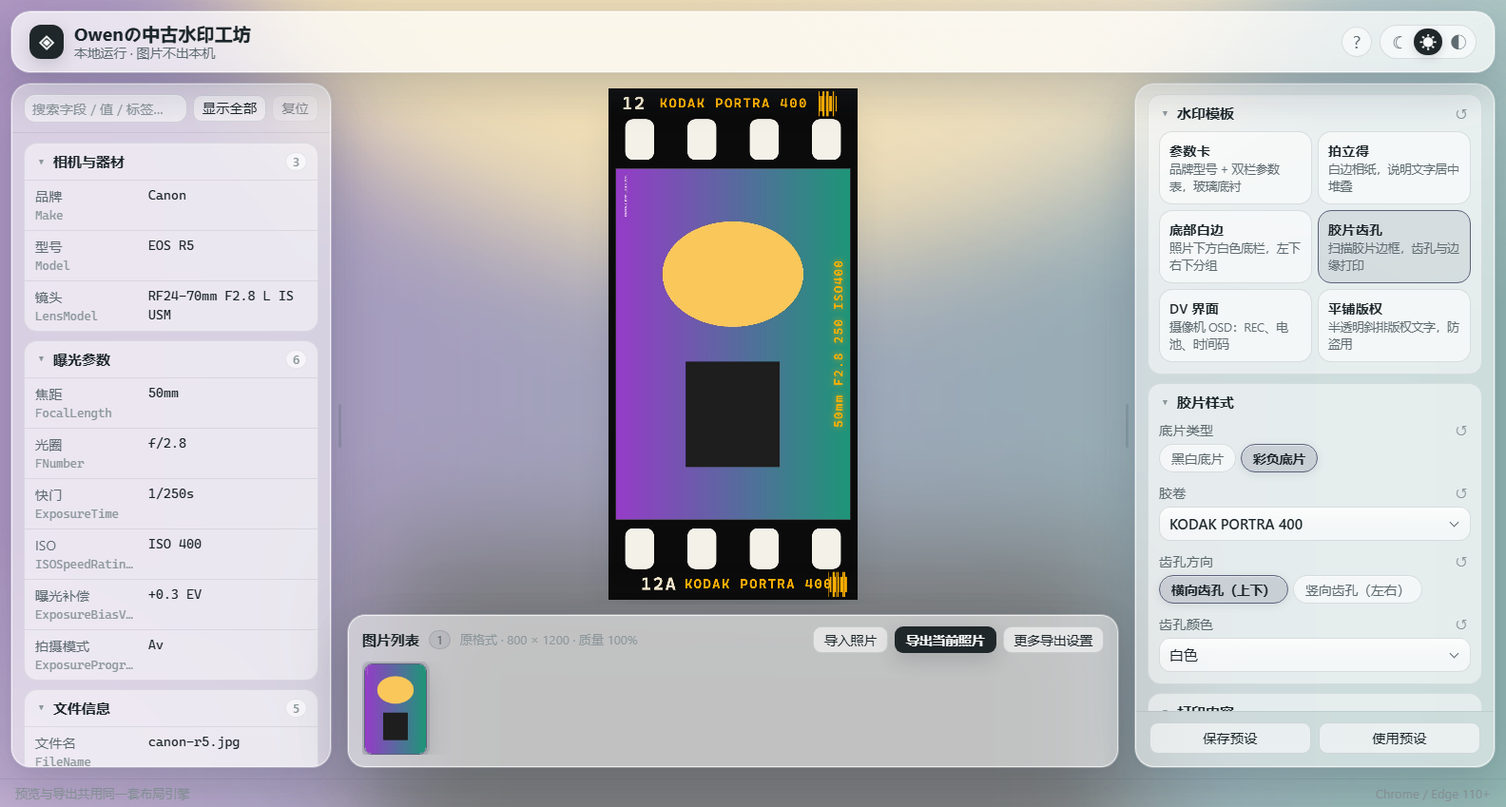
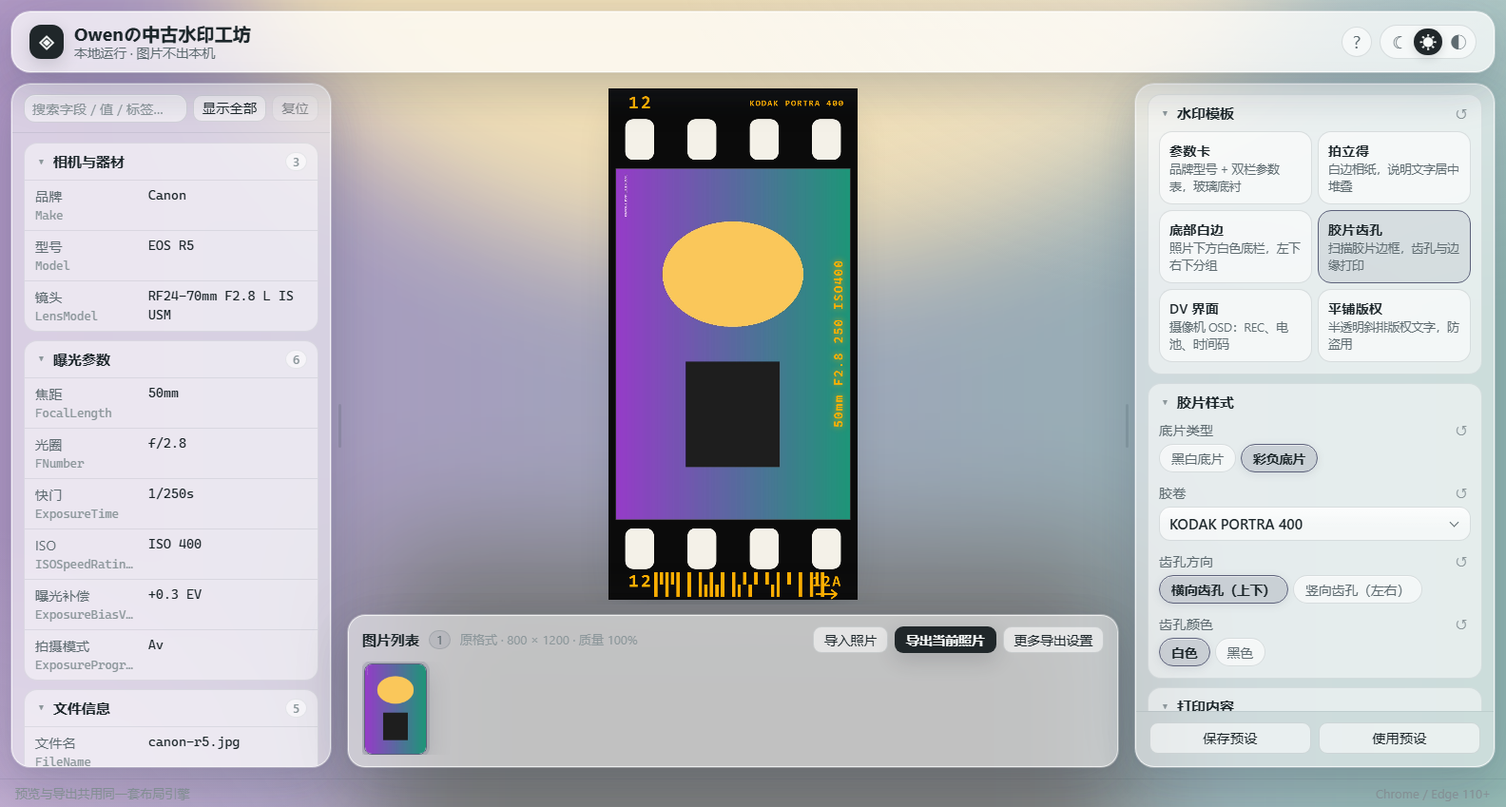
Portra 400 边字按真实孔位复刻，齿孔颜色改分段按钮
- 齿孔颜色改为白色/黑色并排按钮
- 胶卷边字按型号独立样式，Portra 与 HP5 不再共用一套
- Portra：片号在首孔上方、胶卷名跨 3–6 孔、条码1跨 1–4 孔、A 片号在第 5 孔并带箭头、条码2跨 5–8 孔、第 9 孔出下一片号
- 条码按给定 33 列内容逐列渲染（3 满高 / 2 上半 / 1 下半 / 0 空）
- 边字统一橙色、Consolas 粗体（斜杠 0、直笔画 K），字号/透明度不受打印控件影响
- 长图重复、两端允许裁切；HP5 独立白字样式（无 Portra 条码/箭头）
- 测试、README 与 Portra/HP5/长图截图同步

diff --git a/js/layout.js b/js/layout.js
@@ -40,10 +40,57 @@
     }
   };
 
-  // 胶卷边字的外观（与 state.js 的 FILM_STOCKS 一一对应，新增型号时两处一起加）。
-  var FILM_STOCKS = {
-    portra400: { type: 'color-negative', name: 'KODAK PORTRA 400', edge: '#FFB000', number: '#F2E6CC' },
-    hp5: { type: 'bw-negative', name: 'ILFORD HP5 PLUS 400', edge: '#F4F4F4', number: '#F4F4F4' }
+  // 胶片边字字体：Consolas 的 0 带斜杠、K 笔画硬朗，接近真实底片扫描。
+  var EDGE_FONT = 'Consolas, "SF Mono", Menlo, "DejaVu Sans Mono", monospace';
+
+  // 按胶卷型号定义边字样式；不同胶卷（即使同为彩负）互不套用。
+  var FILM_EDGE_STYLES = {
+    portra400: {
+      type: 'color-negative',
+      color: '#FFB000',
+      name: 'KODAK PORTRA 400',
+      // 第 1 孔出片号，第 9 孔开始下一片号 → 每 8 个孔一个循环。
+      cycle: 8,
+      stockHoles: [2, 5],
+      aHole: 4,
+      arrow: true,
+      numberScale: 1.04,
+      aScale: 0.84,
+      stockScale: 0.92,
+      tracking: 0.12,
+      barcode1: '3232303031313031212021302030323',
+      barcode2: '3232303031313031212031213030323'
+    },
+    generic: {
+      type: null,
+      color: '#F4F4F4',
+      name: '',
+      cycle: 8,
+      stockHoles: [2, 5],
+      aHole: 4,
+      arrow: false,
+      numberScale: 1,
+      aScale: 0.9,
+      stockScale: 0.92,
+      tracking: 0.12,
+      barcode1: null,
+      barcode2: null
+    },
+    hp5: {
+      type: 'bw-negative',
+      color: '#F4F4F4',
+      name: 'ILFORD HP5 PLUS 400',
+      cycle: 8,
+      stockHoles: [2, 5],
+      aHole: 4,
+      arrow: false,
+      numberScale: 1,
+      aScale: 0.9,
+      stockScale: 0.92,
+      tracking: 0.12,
+      barcode1: null,
+      barcode2: null
+    }
   };
 
   // DV 的 OSD 固定白色（真实摄像机 OSD 只有白色），不再提供调色。
@@ -1168,12 +1215,12 @@
     var imgH = acrossDim;
     var ops = [];
 
-    var stockInfo = FILM_STOCKS[s.film.stockId];
-    if (!stockInfo || stockInfo.type !== s.film.type) {
-      stockInfo = FILM_STOCKS[s.film.type === 'bw-negative' ? 'hp5' : 'portra400'];
+    var style = FILM_EDGE_STYLES[s.film.stockId];
+    if (!style) style = FILM_EDGE_STYLES.generic;
+    if (style.type && style.type !== s.film.type) {
+      style = FILM_EDGE_STYLES[s.film.type === 'bw-negative' ? 'hp5' : 'generic'];
     }
-    var edgeColor = stockInfo.edge;
-    var numberColor = stockInfo.number;
+    var edgeColor = style.color;
     var printColor = edgeColor;
     // 胶片原有边字固定字号/不透明度；打印字号与透明度只影响下面的打印内容。
     var edgeOpacity = 1;
@@ -1215,16 +1262,24 @@
     var outerBand = Math.max(1, border - innerGap - holeAcross);
     var outerCenter = outerBand / 2;
 
+    function holeCenter(index) {
+      return (index + 0.5) * step;
+    }
+
     function bandY(top) {
       return top ? outerCenter : F - outerCenter;
     }
 
-    function fitFilmLine(text, size, maxW, weight, tracking) {
+    function fitEdgeLine(text, size, maxW) {
       if (!text) return null;
-      var block = fitBlock([{ text: text, size: size, weight: weight || 600, opacity: 1 }],
-        maxW, FAMILIES.mono, 1, measure, tracking == null ? 0.12 : tracking);
+      var block = fitBlock([{ text: text, size: size, weight: 700, opacity: 1 }],
+        maxW, EDGE_FONT, 1, measure, style.tracking);
       var line = block.lines[0];
-      return line && line.size >= size * 0.45 ? line : null;
+      return line && line.size >= size * 0.42 ? line : null;
+    }
+
+    function fitFilmLine(text, size, maxW) {
+      return fitEdgeLine(text, size, maxW);
     }
 
     function pushFilmText(text, x, y, size, color, opacity, rotation, glow, align) {
@@ -1239,38 +1294,45 @@
       }));
     }
 
-    function edgeText(text, along, top, size, color, maxW) {
-      if (!text) return;
-      var line = fitFilmLine(text, size, maxW || Math.max(step * 1.2, alongTotal * 0.9), 700, 0.1);
+    function edgeTextAt(text, x, y, size, maxW, align) {
+      var line = fitEdgeLine(text, size, maxW);
       if (!line) return;
       // 故意不把两端收进来：贴边处被裁掉一部分才像真实扫描。
-      ops.push(textOp(line.text, along, bandY(top), line.size, 700, FAMILIES.mono, color, edgeOpacity, {
-        align: 'center',
+      ops.push(textOp(line.text, x, y, line.size, 700, EDGE_FONT, edgeColor, edgeOpacity, {
+        align: align || 'center',
         shadow: false,
         shadowBlur: 0,
-        tracking: line.size * 0.1,
+        tracking: line.size * style.tracking,
         rotation: 0
       }));
     }
 
-    function edgeBarcode(centerAlong, top) {
-      var unit = Math.max(0.045 * mm, mm * 0.045);
-      var pattern = [1, 2, 1, 3, 1, 1, 2, 1, 3, 2, 1, 2];
-      var total = 0;
-      pattern.forEach(function (w) { total += w * unit; });
-      total += (pattern.length - 1) * unit * 0.7;
-      var x = centerAlong - total / 2;
-      var fullH = outerBand * 0.82;
-      var shortH = fullH * 0.62;
-      var bandCenter = bandY(top);
-      pattern.forEach(function (w, idx) {
-        var h = idx % 3 === 0 || idx % 5 === 0 ? fullH : shortH;
+    function edgeBarcode(pattern, startX, endX, top) {
+      if (!pattern) return;
+      var span = Math.max(1, endX - startX);
+      var unit = span / pattern.length;
+      var bandTop = top ? 0 : F - outerBand;
+      var pad = outerBand * 0.10;
+      var mid = bandTop + outerBand / 2;
+      for (var idx = 0; idx < pattern.length; idx++) {
+        var code = pattern.charAt(idx);
+        if (code === '0') continue;
+        var h = code === '3' ? outerBand - pad * 2 : outerBand / 2 - pad;
+        var y = code === '1' ? mid : bandTop + pad;
         ops.push({
-          kind: 'rect', x: x, y: bandCenter - h / 2, w: w * unit, h: h,
-          radius: 0, fill: rgba(edgeColor, edgeOpacity), stroke: null, shadow: false
+          kind: 'rect', x: startX + idx * unit, y: y, w: unit * 0.62, h: h,
+          radius: 0, fill: edgeColor, stroke: null, shadow: false
         });
-        x += w * unit + unit * 0.7;
-      });
+      }
+    }
+
+    function edgeArrow(cx, y, width) {
+      var lw = Math.max(1, mm * 0.12);
+      var head = width * 0.28;
+      var half = width * 0.22;
+      ops.push({ kind: 'line', x1: cx - width / 2, y1: y, x2: cx + width / 2, y2: y, color: edgeColor, width: lw });
+      ops.push({ kind: 'line', x1: cx + width / 2 - head, y1: y - half, x2: cx + width / 2, y2: y, color: edgeColor, width: lw });
+      ops.push({ kind: 'line', x1: cx + width / 2 - head, y1: y + half, x2: cx + width / 2, y2: y, color: edgeColor, width: lw });
     }
 
     function frameStartInfo(raw) {
@@ -1291,22 +1353,52 @@
       return 'F' + raw.replace(/^f\s*\/?\s*/i, '');
     }
 
-    // 真实 135 边字：每 8 个孔（一格）重复「片号 / 片号A / 胶卷名×2 / 条码×2」，
-    // 超长片会不断递增/重复；两端故意允许被裁切。
+    // 按真实 Portra 135 的 9 孔循环：
+    // 上：片号在首孔上方，胶卷名跨第 3–6 孔；
+    // 下：片号在首孔下方，条码1跨 1–4 孔，A 片号在第 5 孔下方（更小 + 箭头），条码2跨 5–8 孔。
     var info = frameStartInfo(s.film.frameNo);
-    var baseBlock = step * 8;
-    var blocks = Math.max(1, Math.round(alongTotal / baseBlock));
-    var cell = alongTotal / blocks;
-    for (var b = 0; b < blocks; b++) {
-      var base = b * cell;
-      var num = ((info.start - 1 + b) % 36 + 36) % 36 + 1;
-      // 一格内：片号 / 片号A / 胶卷名×2 / 条码×2，错位排布。
-      edgeText(String(num), base + cell * 0.10, true, edgeSize, numberColor, cell * 0.16);
-      edgeText(String(num) + 'A', base + cell * 0.20, false, edgeSize, numberColor, cell * 0.18);
-      edgeText(stockInfo.name, base + cell * 0.50, true, edgeSize * 0.92, edgeColor, cell * 0.55);
-      edgeText(stockInfo.name, base + cell * 0.60, false, edgeSize * 0.92, edgeColor, cell * 0.55);
-      edgeBarcode(base + cell * 0.88, true);
-      edgeBarcode(base + cell * 0.92, false);
+    var lastHole = Math.max(0, n - 1);
+    var cycleLen = style.cycle * step;
+    var cycles = Math.max(1, Math.ceil(alongTotal / cycleLen));
+    for (var k = 0; k < cycles; k++) {
+      var base = k * cycleLen;
+      var num = ((info.start - 1 + k) % 36 + 36) % 36 + 1;
+      edgeTextAt(String(num), base + holeCenter(0), bandY(true), edgeSize * style.numberScale, step * 0.9);
+      var stockStartHole = Math.min(style.stockHoles[0], lastHole);
+      var stockEndHole = Math.min(style.stockHoles[1], lastHole);
+      var stockStart = base + holeCenter(stockStartHole) - holeAlong / 2;
+      var stockEnd = base + holeCenter(stockEndHole) + holeAlong / 2;
+      if (stockEndHole >= lastHole) stockEnd = Math.min(stockEnd, alongTotal - holeAlong * 0.2);
+      if (stockEnd > stockStart) {
+        var stockSpan = stockEnd - stockStart;
+        var stockTarget = edgeSize * style.stockScale;
+        var naturalWidth = measure(style.name, {
+          size: stockTarget, weight: 700, family: EDGE_FONT, tracking: stockTarget * style.tracking
+        });
+        if (naturalWidth > 0) stockTarget *= Math.min(1.45, (stockSpan * 0.98) / naturalWidth);
+        edgeTextAt(style.name, stockStart, bandY(true), stockTarget, stockSpan, 'left');
+      }
+
+      var bottomY = bandY(false) - (style.arrow ? edgeSize * 0.12 : 0);
+      edgeTextAt(String(num), base + holeCenter(0), bottomY, edgeSize * style.numberScale, step * 0.9);
+      if (style.barcode1) {
+        edgeBarcode(style.barcode1,
+          base + holeCenter(0) + holeAlong / 2,
+          base + holeCenter(3), false);
+      }
+      var aHole = Math.min(style.aHole, lastHole);
+      edgeTextAt(String(num) + 'A', base + holeCenter(aHole), bottomY,
+        edgeSize * style.aScale, step * 0.9);
+      if (style.arrow) {
+        edgeArrow(base + holeCenter(aHole), bandY(false) + edgeSize * 0.55,
+          Math.max(edgeSize * 0.9, holeAlong * 0.72));
+      }
+      if (style.barcode2) {
+        var b2start = base + holeCenter(style.aHole) + holeAlong / 2;
+        var b2end = Math.min(base + (holeCenter(7) + holeCenter(8)) / 2,
+          alongTotal - holeAlong * 0.2);
+        if (b2end > b2start) edgeBarcode(style.barcode2, b2start, b2end, false);
+      }
     }
 
     if (s.film.printStyle !== 'none') {

diff --git a/tests/browser-selftest.html b/tests/browser-selftest.html
@@ -247,12 +247,12 @@
       var pentaxItems = [expectedMode, expectedComp, '400', '250', 'F2.8'];
       log(pentaxItems.every(function (t) { return !!filmTexts.filter(function (op) { return op.text === t; })[0]; }),
         'Pentax 孔间打印档位/曝光补偿/ISO/快门/光圈');
-      log(filmTexts.filter(function (op) { return op.text === 'KODAK PORTRA 400'; }).length >= 2,
-        '胶卷型号沿片长重复出现');
+      log(filmTexts.filter(function (op) { return op.text === 'KODAK PORTRA 400'; }).length === 1,
+        '单格内胶卷型号出现一次（长图才重复）');
       var filmBars = filmScene.ops.filter(function (op) {
-        return op.kind === 'rect' && op.fill && String(op.fill).indexOf('255, 176, 0') >= 0;
+        return op.kind === 'rect' && op.fill === '#FFB000';
       });
-      log(filmBars.length >= 8, '边码条码存在');
+      log(filmBars.length >= 20, '两段真实条码存在');
       log(!!filmTexts.filter(function (op) { return op.text === '12'; })[0] &&
         !!filmTexts.filter(function (op) { return op.text === '12A'; })[0], '片号按间隔出现 12/12A');
 

diff --git a/js/ui.js b/js/ui.js
@@ -1289,7 +1289,7 @@
         { type: 'seg', label: '底片类型', path: 'film.type', options: state.FILM_TYPES },
         { type: 'select', label: '胶卷', path: 'film.stockId', options: 'filmStocks' },
         { type: 'seg', label: '齿孔方向', path: 'film.orientation', options: state.FILM_ORIENTATIONS },
-        { type: 'select', label: '齿孔颜色', path: 'film.holeColor', options: state.FILM_HOLE_COLORS }
+        { type: 'seg', label: '齿孔颜色', path: 'film.holeColor', options: state.FILM_HOLE_COLORS }
       ]
     },
     {

diff --git a/README.md b/README.md
@@ -86,6 +86,10 @@ node server.mjs
 
 ![长图上的边字、片号与条码重复](shots/film-panorama.png)
 
+![Portra 400 边字细节（100% 导出）](shots/film-portra.jpg)
+
+![HP5 独立白字边字](shots/film-hp5.png)
+
 ![黑白底片](shots/film-bw.png)
 
 ![Minolta 右侧参数（横向齿孔）](shots/film-horizontal-minolta.png)
@@ -103,7 +107,7 @@ node server.mjs
 ### 4. 胶片齿孔模式
 
 - **黑白底片 / 彩负底片**两种；反转片入口已移除，旧设置会自动迁移为彩负。两种底片都使用近黑片基。
-- **胶卷下拉**（胶片样式里，紧跟在「底片类型」下面）：彩负默认 `KODAK PORTRA 400`，黑白默认 `ILFORD HP5 PLUS 400`；选项按底片类型过滤，以后可以直接在 `state.FILM_STOCKS` / `layout.FILM_STOCKS` 里继续加型号。
+- **胶卷下拉**（胶片样式里，紧跟在「底片类型」下面）：彩负默认 `KODAK PORTRA 400`，黑白默认 `ILFORD HP5 PLUS 400`；选项按底片类型过滤。新增型号时在 `state.FILM_STOCKS` 与 `layout.FILM_EDGE_STYLES` 各加一条，边字样式按型号独立配置，不会影响其它彩负。
 - 齿孔方向只有**横向 / 竖向**两项（默认横向），由用户自己选，不再自动切换。
 - 按参考扫描图与 135 规格固定比例（以画面高 24mm 标定）：
   - 片宽 = 画面高 × 35/24；
@@ -113,19 +117,22 @@ node server.mjs
   - 齿孔固定 **1.98mm × 2.8mm**，长轴垂直于胶卷方向；横向胶卷为竖孔，竖向胶卷为横孔；
   - 齿距 4.75mm，孔数按含黑边的总片长自动取整；3:2 约 8 孔/边，首尾两端都有孔。
 - **打印字号只跟 24mm 画幅高成比例**（`‰胶片宽`），与照片宽度无关：同一张照片无论多宽，打印字都一样大；横向/竖向齿孔切换也不改变字号。
-- 齿孔颜色可选**白色 / 黑色**；白色为默认。黑色孔在黑片基上加细浅描边。
+- 齿孔颜色可选**白色 / 黑色**，改为和底片类型/齿孔方向一样的**并排分段按钮**，点一次即可切换（不再需要打开下拉）。黑色孔在黑片基上加细浅描边。
 - 打印改为**固定风格预设**，不再让用户自由组合字段/位置：
   - **无打印**：只保留齿孔外侧原有边字。
   - **Minolta α9000**：拍摄参数**紧贴画面右缘、垂直居中**竖向排列（横向齿孔时），带亮橙色激光光晕；竖向齿孔时随画幅旋转 90°，贴在下边缘。
   - **Pentax MZS**：上侧齿孔之间，每个孔间隙一个字段，顺序为档位 `P`、曝光补偿 `±0.0`、ISO、快门、光圈（如 `P / ±0.0 / 400 / 250 / F2.8`）。
   - **Canon Prima 80u**：画面右下角日期，格式 `'YY MM DD`，如 `'26 11 16`；竖向齿孔时日期同为竖排。
 - 后期打印内容使用高亮近白/亮橙，并带轻微同色光晕，模拟红外激光打印；**打印字号 / 打印透明度只作用于这些打印内容**，不再影响胶片原有边字。
-- **原有边字严格仿真实 135**（按每格 8 孔排布，上下两侧都有）：
-  - 上侧：片号（`12`、`13`…，1–36 循环）、胶卷全名、条码；
-  - 下侧：片号加 A（`12A`、`13A`…）、胶卷全名、条码；
-  - 胶卷名与条码沿片长**不断重复**，片号**逐格递增**；长图会自然出现多次 `KODAK PORTRA 400` 和多组条码；
-  - 两端不额外留白：贴边的字母/条码会被裁掉一部分，这正是真实扫描的样子；
-  - 原有边字字号只由 35mm 片宽决定（不随打印字号/透明度变化），颜色随胶卷：Portra 琥珀色、HP5 亮白。
+- **原有边字按胶卷型号独立复刻**，不是「换个颜色/换个品牌」通用套用：
+  - **Portra 400** 严格按真实 135 的孔位（第 1 孔出片号，第 9 孔出下一片号，即每 8 孔一循环）：
+      - 上侧：片号（如 `9`）在**第 1 个上孔正上方**；`KODAK PORTRA 400` 从**第 3 孔左上**到**第 6 孔右上**；第 9 孔开始下一个片号（`10`）。
+      - 下侧：片号（如 `9`）在**第 1 个下孔正下方**；第一段条码从**第 1 孔右下**到**第 4 孔下方**；**第 5 孔正下方是 A 片号**（如 `9A`，比普通片号小一点），A 片号下面有**右向箭头**；第二段条码从**第 5 孔右下**到**第 8/9 孔之间**；第 9 孔开始下一个循环。
+    - 两段条码内容固定为 `3232303031313031212021302030323` 与 `3232303031313031212031213030323`，逐列渲染：`3` 满高、`2` 上半高、`1` 下半高、`0` 空；条码与孔位、片号的距离固定。
+    - 边字使用 **Consolas 粗体**（`0` 带斜杠、`K` 笔画硬直），片号、A 片号、胶卷名、条码、箭头全部为 Portra 橙（`#FFB000`）。
+    - 长图上片号每 8 孔递增，胶卷名与两段条码不断重复；首尾不内缩，贴边内容允许被裁切。
+  - **HP5** 使用自己的白字边字样式（独立的循环、字号与布局，没有 Portra 的橙色条码与箭头），后续可直接按真实 HP5 扫描继续细化。
+- 边字字号只由 35mm 片宽决定、透明度固定为 1；**打印字号 / 打印透明度只作用于 Pentax / Minolta / Canon 打印内容**，不影响原有边字。
 - 支持下拉选择胶卷与自定义片号起点（默认 `12`）。
 - **竖向齿孔 = 整幅旋转 90°**：孔位、原有边字、打印内容一起转，因此任何文字都不会压到齿孔上；旋转后文字锚点按旋转坐标系重算（不存在「竖排文字整体内缩/上移」的问题）。
 
@@ -135,7 +142,7 @@ node server.mjs
   - 参数卡：布局 / 底衬 / 文字 / 徽标。
   - 拍立得：相纸厚度与颜色 / 文字 / 徽标；**字重只影响品牌型号行，不改变相纸几何**。
   - 底部白边：栏高 / 栏色 / 左右槽位 / 徽标位置 / 徽标分隔线 / 徽标。
-  - 胶片：底片类型 / **胶卷（下拉）** / 方向 / 齿孔颜色 / 打印风格（无、Minolta、Pentax、Canon）/ 片号起点 / 打印字号（‰胶片宽）/ 打印透明度。
+  - 胶片：底片类型 / **胶卷（下拉）** / 方向 / 齿孔颜色（分段按钮）/ 打印风格（无、Minolta、Pentax、Canon）/ 片号起点 / 打印字号（‰胶片宽）/ 打印透明度。
   - DV：字号 / OSD 透明度 / 取景框线 / 取景框线宽 / 取景框边距 / 元素边距 / 分辨率 / 曝光标尺 / 日期时间 / 时间码 / 中心对焦框 / 三分线。**OSD 固定白色，颜色选项已删除**。
   - 平铺版权：字体 / 颜色 / 角度 / 密度 / 透明度 / 字号。
 - **日期和时间是独立字段**：显示字段中分别勾选“日期”“时间”；日期有 6 种格式，时间有 24/12 小时制共 4 种格式。底部白边槽位、DV 也遵循同样规则；胶片日期格式由 Canon 预设固定。
@@ -188,7 +195,7 @@ node server.mjs
 node --test --test-isolation=none tests/parser.test.mjs tests/layout.test.mjs tests/export.test.mjs
 ```
 
-共 48 个测试：XMP 容器（ISO）解析、真实样张摘要、EXIF/PNG 解析、IPTC/XMP/ICC、损坏容错、EXIF 编辑解析、EXIF 补丁与回写、PNG 块重建、跨格式 XMP、ZIP、文件名、尺寸上限、六套模板、胶片固定孔比例/孔向/两端孔/0.5mm 黑边/字号只随 24mm 画幅高/真实边字与条码重复/边字不受打印控件影响/Minolta 贴右居中/竖向不压孔、DV 单折线取景框/满透明度/固定白色/REC 尺寸、底部白边 logo/短竖线/右对齐、拍立得字重隔离、参数卡品牌去重、日期时间独立格式化、旧设置迁移、EXIF 可见性精简（常用/全部）。
+共 48 个测试：XMP 容器（ISO）解析、真实样张摘要、EXIF/PNG 解析、IPTC/XMP/ICC、损坏容错、EXIF 编辑解析、EXIF 补丁与回写、PNG 块重建、跨格式 XMP、ZIP、文件名、尺寸上限、六套模板、胶片固定孔比例/孔向/两端孔/0.5mm 黑边/字号只随 24mm 画幅高/Portra 边字 8 孔循环与孔位相对位置/条码内容与三段高度/边字不受打印控件影响/HP5 独立样式/Minolta 贴右居中/竖向不压孔、DV 单折线取景框/满透明度/固定白色/REC 尺寸、底部白边 logo/短竖线/右对齐、拍立得字重隔离、参数卡品牌去重、日期时间独立格式化、旧设置迁移、EXIF 可见性精简（常用/全部）。
 
 > 受限环境不允许 Node 测试运行器派生子进程，因此使用 `--test-isolation=none`。
 
@@ -223,14 +230,14 @@ node tests/cdp-check.mjs shots    "http://127.0.0.1:5173/?demo=canon-r5.jpg"
 - `controls`：逐模板修改所有可见滑块并比较画布像素，再点复位验证恢复默认；**44 个滑块**全部通过。
 - `thumbs`：合成 2.5:1 与 6:1 图片，并可选加载 `testTruePhoto/0.75@0.75x.png`（6.33:1），断言 2.5:1 缩略图按原比例（2.5）完整显示、6:1 与真实超长图被压到 3:1 并留上下黑边、所有缩略图高度一致。
 - `mock`：无图状态断言 3:2 空白参考照片（照片区比例 1.5 ±0.012、直角）、提示文案、顶栏无「选择图片/载入示例」；选底部白边后成品外框比例变为约 1.32、照片区仍 1.5；选胶片后成品约 1.06、照片区仍 1.5；照片中心像素透明（露出磨砂容器的主题色），提示文字缩放比例与方块宽度/800 一致；深浅主题下容器底色不同；再次点击与双击都取消选择并回到 3:2 空白照片。
-- `features`：新增 **导出设置弹窗**（背景 `blur`、控件在弹窗内、关闭后回到 host）、**预设条**（两个按钮、浮层最后一项为「导入预设」）、**左侧常用/全部两种模式**（常用 = 4 张卡 17 行且全部可编辑；全部 = 12 组 130 行且 0 个可编辑）、**滚轮缩放与双击复位**（滚轮变小、双击回自适应、最大不超过自适应）、**所有分区默认展开**（6 套模板逐一检查，胶片恰为「水印模板 / 胶片样式 / 打印内容」3 张）、**显示内容条件**（关掉地点不出现地点来源、勾自定义才出现自定义文字）、**DV 全扁平**（0 个带阴影图元）、**底栏无添加瓦片且图片不可拖**（清空后为可点击虚线框）、**底栏滚轮横滑**（17 张图时 `scrollLeft` 由 0 增至 240）、**下拉皮肤**等检查；并验证日期/时间独立与格式、品牌 logo 去重、拍立得字重隔离、底部白边 logo 位置与短竖线、胶片白色/黑色齿孔、胶卷下拉切换（Portra/HP5）、胶卷名与条码重复、片号 12/12A 递增、Pentax 五段孔间参数、Minolta 贴右居中且竖向不压孔、Canon 右下日期、无打印、DV 取景框/分辨率/曝光/中心对焦、下拉大箭头。
+- `features`：新增 **导出设置弹窗**（背景 `blur`、控件在弹窗内、关闭后回到 host）、**预设条**（两个按钮、浮层最后一项为「导入预设」）、**左侧常用/全部两种模式**（常用 = 4 张卡 17 行且全部可编辑；全部 = 12 组 130 行且 0 个可编辑）、**滚轮缩放与双击复位**（滚轮变小、双击回自适应、最大不超过自适应）、**所有分区默认展开**（6 套模板逐一检查，胶片恰为「水印模板 / 胶片样式 / 打印内容」3 张）、**显示内容条件**（关掉地点不出现地点来源、勾自定义才出现自定义文字）、**DV 全扁平**（0 个带阴影图元）、**底栏无添加瓦片且图片不可拖**（清空后为可点击虚线框）、**底栏滚轮横滑**（17 张图时 `scrollLeft` 由 0 增至 240）、**下拉皮肤**等检查；并验证日期/时间独立与格式、品牌 logo 去重、拍立得字重隔离、底部白边 logo 位置与短竖线、胶片白色/黑色齿孔（分段按钮）、胶卷下拉切换（Portra/HP5）、Portra 边字按 8 孔循环/片号与条码位置、胶卷名与条码重复、片号 12/12A 递增、Pentax 五段孔间参数、Minolta 贴右居中且竖向不压孔、Canon 右下日期、无打印、DV 取景框/分辨率/曝光/中心对焦、下拉大箭头。
 - `theme`：验证顶部栏右侧黑暗/开灯/跟随系统开关、照片低饱和主题色、模糊照片背景、系统深浅色跟随、localStorage 持久化，并断言**右侧分区与左侧分组圆角/描边/底色完全一致**（同款大卡片）、左侧常用栏 4 组 17 行全可编辑，并生成浅色/深色截图。
 - `files`：验证拖入第二张图自动切换、底部图片瓦片（只含图片，文件名在 `title`/`dataset`）、EXIF 始终可见与底部导出按钮。
 - 空状态截图：`shots/empty-state.png`（3:2 空白参考照片 + 默认模板水印，可直接点击选图）、`shots/mock-preview.png`（浅色 + 胶片：3:2 照片被齿孔外框包住）、`shots/mock-dark.png`（深色 + 胶片，照片区保持深色）。
 - `left`：验证底部图片卡片切换、EXIF 双击修改 Make / Model / FNumber、水印像素变化、复位与移除当前照片。
 - `resize`：验证网页字号 1.25 倍、左右侧栏真实鼠标拖动、键盘微调、双击复位、宽度持久化与移动端单列；同时断言**左右侧栏各自通高到底、底部图片列表卡与中间列同宽同缘、标题与右上三个导出按钮正确**、**预览区没有工具栏/页脚且面板背景透明无阴影**、**卡片柔光多段阴影生效**、**底栏所有缩略图等大且底边对齐（无缩放）**，以及预设条贴在右栏底部。
 - `real`：加载真实 45MB PNG，确认 XMP 摘要含品牌 / 镜头 / 光圈 / 快门 / ISO 并正常渲染。
-- `export`：默认断言「原格式 + 100% 质量 + 原尺寸」；JPG 输入导出 JPEG，PNG 输入导出 PNG（`nikon-z6_watermark.png`）；生成真实水印 JPEG 到 `shots/`；`shots`：生成六套模板截图，以及 `film-bw`、`film-minolta`、`film-canon-date`、`film-vertical-minolta`、`film-vertical-canon`、`film-horizontal-minolta`、`bottom-bar-logo-left`、`dv-center-focus`、`export-settings-modal`、`preset-popover`、`dock-scroll`、`no-exif-filled`、`zoom-out`、`mock-preview`、`mock-dark`、`film-long`、`film-panorama`；`theme`：生成 `theme-light`、`theme-dark`。
+- `export`：默认断言「原格式 + 100% 质量 + 原尺寸」；JPG 输入导出 JPEG，PNG 输入导出 PNG（`nikon-z6_watermark.png`）；生成真实水印 JPEG 到 `shots/`；`shots`：生成六套模板截图，以及 `film-bw`、`film-minolta`、`film-canon-date`、`film-vertical-minolta`、`film-vertical-canon`、`film-horizontal-minolta`、`bottom-bar-logo-left`、`dv-center-focus`、`export-settings-modal`、`preset-popover`、`dock-scroll`、`no-exif-filled`、`zoom-out`、`mock-preview`、`mock-dark`、`film-long`、`film-panorama`、`film-portra`、`film-hp5`、`film-landscape`；`theme`：生成 `theme-light`、`theme-dark`。
 
 > 受限的 DSH 沙箱会禁止浏览器创建命名管道；上述浏览器检查需要在允许启动 Chrome / Edge 的环境运行。
 
